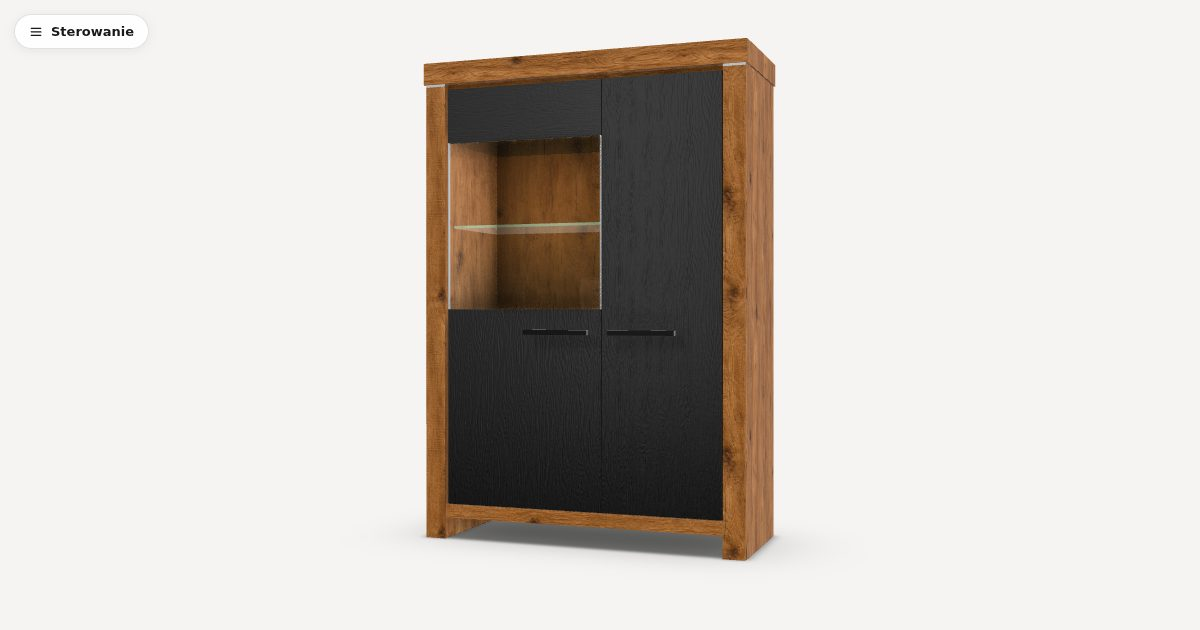
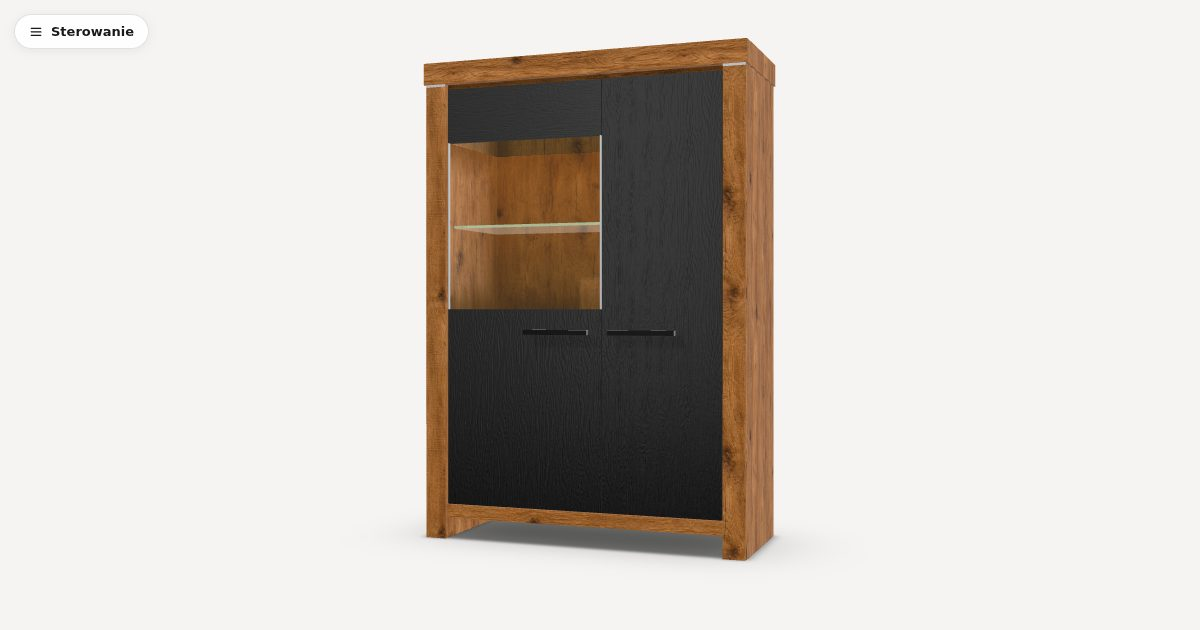
Render every frame the same way: drop settle-only AO
The desktop GTAO overlay drew only after the camera stopped, so the image
switched between lighter (moving) and darker (still) on real GPUs. All
render branches on camera motion are removed; interior and recess
occlusion are now constant shader terms, the floor shadow re-bakes only on
configuration or door changes, and a strict moving-vs-still pixel check
plus a source guard keep it that way. Posters, share image and gotcha G27
updated.

Changed region(s): [[0.37, 0.2111, 0.5242, 0.5127], [0.37, 0.8143, 0.4008, 0.8444]]

diff --git a/frontend/src/scene/StudioEffects.tsx b/frontend/src/scene/StudioEffects.tsx
@@ -1,12 +1,10 @@
-// Shadowing key light and screen-space ambient occlusion for the studio look; the floor shadow is BakedFloorShadow.
-import { useEffect, useLayoutEffect, useMemo, useRef } from 'react'
+// Shadowing key light and the scene renderer for the studio look; the floor shadow is BakedFloorShadow.
+import { useLayoutEffect, useRef } from 'react'
 import { useFrame, useThree } from '@react-three/fiber'
-import { Matrix4, Mesh, type Camera, type ShaderMaterial, type WebGLRenderTarget, type DirectionalLight, type Scene, type WebGLRenderer } from 'three'
-import { GTAOPass } from 'three/examples/jsm/postprocessing/GTAOPass.js'
-import { FullScreenQuad } from 'three/examples/jsm/postprocessing/Pass.js'
+import type { DirectionalLight } from 'three'
 import type { CabinetLayout } from './layout'
 import { PHONE } from './materials'
-import { endFrame, isAnimating } from './motion'
+import { endFrame } from './motion'
 
 /** Key light direction (from the cabinet centre) and strength: front-left and above, as in the reference photo. */
 const KEY_DIRECTION: [number, number, number] = [-2.5, 3.5, 3]
@@ -22,7 +20,6 @@ const SHADOW_RADIUS = 5
  */
 export function KeyLight({ bounds }: { bounds: CabinetLayout['bounds'] }) {
   const light = useRef<DirectionalLight>(null)
-  const get = useThree((s) => s.get)
   const invalidate = useThree((s) => s.invalidate)
   const [w, h, d] = bounds.size
   const [cx, cy, cz] = bounds.centre
@@ -41,10 +38,8 @@ export function KeyLight({ bounds }: { bounds: CabinetLayout['bounds'] }) {
     cam.near = reach
     cam.far = reach * 3.5
     cam.updateProjectionMatrix()
-    // A new size refreshes the shadow even mid-refit, while the camera still moves.
-    get().gl.shadowMap.needsUpdate = true
     invalidate()
-  }, [w, h, d, cx, cy, cz, get, invalidate])
+  }, [w, h, d, cx, cy, cz, invalidate])
   return (
     <directionalLight
       ref={light}
@@ -59,103 +54,16 @@ export function KeyLight({ bounds }: { bounds: CabinetLayout['bounds'] }) {
   )
 }
 
-/** After the last camera move, the settled frame (shadow refresh, AO) follows this much later. */
-const SETTLE_MS = 120
-
 /**
- * Ground-truth AO (three's GTAOPass) as a multiply layer over the frame already on the canvas: the colour is the
- * direct render untouched (same blending, tone mapping and output colour space as a moving frame); AO only darkens.
- * An earlier composer route re-rendered the colour into a linear target, which blended the glass in linear space
- * (greyed vitrine) and lifted the dark fronts.
+ * Renders the scene (useFrame priority 1) when the demand loop is invalidated, and closes the frame for `motion.ts`.
+ * One render path for every frame: the same passes, shadow map refresh (three's auto update) and lights whether the
+ * camera moves or not. A settled-frame-only GTAO layer once switched the look on real GPUs when the view stopped
+ * (gotchas G27); the occlusion is now analytic (`interiorOcclusion.ts`), so it is in every frame.
  */
-function createAoOverlay(scene: Scene, camera: Camera) {
-  const ao = new GTAOPass(scene, camera, 1, 1)
-  ao.output = GTAOPass.OUTPUT.Off
-  ao.updateGtaoMaterial({ radius: 0.35, distanceExponent: 1, thickness: 1, scale: 1, samples: 16 })
-  // Wider, denser denoise: the 4×4 noise pattern of the raw AO read as pixelation.
-  ao.updatePdMaterial({ radius: 12, rings: 3, samples: 24 })
-  // Glass and other transparent panes (and the floor-shadow quad) would occlude what is behind them in the AO depth,
-  // so the AO pass hides them.
-  // Patches a private method of three 0.187's GTAOPass (re-check on upgrade): it hides points and lines only.
-  const pass = ao as unknown as { _overrideVisibility(): void; _visibilityCache: Mesh[]; blendMaterial: ShaderMaterial; pdRenderTarget: WebGLRenderTarget }
-  const hide = pass._overrideVisibility.bind(ao)
-  pass._overrideVisibility = () => {
-    hide()
-    scene.traverse((o) => {
-      if (o instanceof Mesh && o.visible && [o.material].flat().every((m) => m.transparent)) {
-        o.visible = false
-        pass._visibilityCache.push(o)
-      }
-    })
-  }
-  // The pass's own multiply-blend material, drawn onto the canvas.
-  pass.blendMaterial.uniforms.tDiffuse.value = pass.pdRenderTarget.texture
-  pass.blendMaterial.uniforms.intensity.value = 1
-  const quad = new FullScreenQuad(pass.blendMaterial)
-  return {
-    setSize: (w: number, h: number) => ao.setSize(w, h),
-    render(gl: WebGLRenderer) {
-      const autoClear = gl.autoClear
-      ao.render(gl, null as unknown as WebGLRenderTarget, null as unknown as WebGLRenderTarget, 0, false)
-      gl.setRenderTarget(null)
-      gl.autoClear = false
-      quad.render(gl)
-      gl.autoClear = autoClear
-    },
-    dispose() {
-      ao.dispose()
-      quad.dispose()
-    },
-  }
-}
-
-/**
- * Renders the scene (useFrame priority 1), still only when the demand loop is invalidated.
- * - Motion is the camera moving or scene geometry animating (`motion.ts`, marked by Door). While moving, the frame
- *   renders directly and skips the AO layer (GTAO costs ~10× the frame time under SwiftShader); the settled frame
- *   after everything stops adds it over an otherwise identical render.
- * - The key light's shadow map is view-independent: reused while only the camera moves, refreshed while geometry
- *   animates and on every settled frame (option change, end of an orbit or swing).
- * - `ambientOcclusion` (desktop): corners, the underside of the top, the space behind shelves and the base darken.
- */
-export function StudioRenderer({ ambientOcclusion }: { ambientOcclusion: boolean }) {
-  const scene = useThree((s) => s.scene)
-  const camera = useThree((s) => s.camera)
-  const invalidate = useThree((s) => s.invalidate)
-  // The drawing buffer, in device pixels: the AO layer matches the canvas texel for texel.
-  const bufferWidth = useThree((s) => Math.round(s.size.width * s.viewport.dpr))
-  const bufferHeight = useThree((s) => Math.round(s.size.height * s.viewport.dpr))
-  const overlay = useMemo(() => (ambientOcclusion ? createAoOverlay(scene, camera) : null), [ambientOcclusion, scene, camera])
-  useEffect(() => () => overlay?.dispose(), [overlay])
-  useEffect(() => {
-    overlay?.setSize(bufferWidth, bufferHeight)
-    invalidate()
-  }, [overlay, bufferWidth, bufferHeight, invalidate])
-  const get = useThree((s) => s.get)
-  useLayoutEffect(() => {
-    const { shadowMap } = get().gl
-    shadowMap.autoUpdate = false
-    shadowMap.needsUpdate = true
-  }, [get])
-  const lastView = useRef(new Matrix4())
-  const settle = useRef<ReturnType<typeof setTimeout>>(undefined)
-  useEffect(() => () => clearTimeout(settle.current), [])
+export function StudioRenderer() {
   useFrame((state) => {
-    clearTimeout(settle.current)
-    const view = state.camera.matrixWorld
-    const cameraMoved = !view.equals(lastView.current)
-    const animating = isAnimating()
-    if (cameraMoved) {
-      lastView.current.copy(view)
-      settle.current = setTimeout(invalidate, SETTLE_MS)
-    }
-    // Reuse the map only for camera-only motion; moving geometry refreshes it even while the camera also moves.
-    // An animator invalidates its own next frame, which is the settled one once it stops.
-    if (!cameraMoved || animating) state.gl.shadowMap.needsUpdate = true
     state.gl.render(state.scene, state.camera)
-    if (!cameraMoved && !animating) overlay?.render(state.gl)
     endFrame()
   }, 1)
   return null
 }
-

diff --git a/frontend/src/scene/interiorOcclusion.ts b/frontend/src/scene/interiorOcclusion.ts
@@ -3,10 +3,12 @@ import { Vector3 } from 'three'
 import type { CabinetLayout } from './layout'
 
 /** Indirect light left at the back wall of the cavity, against 1 at the opening. */
-const BACK_LEVEL = 0.45
+const BACK_LEVEL = 0.36
 /** Indirect light left in an inside corner, and the distance (m) over which it recovers. */
-const CORNER_LEVEL = 0.55
-const CORNER_REACH_M = 0.09
+const CORNER_LEVEL = 0.4
+const CORNER_REACH_M = 0.12
+/** Share of the corner (contact) occlusion that also dims direct light: the key's light into a corner, as AO would. */
+const CORNER_DIRECT_SHARE = 0.5
 /** Warm vitrine light: ≈3000 K tint (linear RGB) and its strength on the albedo at the brightest point. */
 const VITRINE_TINT = [1, 0.5, 0.18] as const
 const VITRINE_STRENGTH = 0.55
@@ -16,13 +18,14 @@ const NO_BOX: CabinetLayout['interior'] = { min: [1, 1, 1], max: [-1, -1, -1] }
 /**
  * Analytic occlusion for the carcass cavity, on every device: environment (indirect) light on inner faces fades with
  * depth behind the opening and toward inside corners, as a real cabinet's interior sees little of the studio.
- * Direct light and its shadows are untouched; desktop GTAO adds the contact detail on top.
+ * Inside corners also dim part of the direct light, as contact AO would. It is in every frame on every device:
+ * the scene has no screen-space AO (a settled-frame-only GTAO layer switched the look when the camera stopped).
  * Faces count as inner when they lie inside the cavity box and do not face out through the back.
  *
  * The same patch adds the always-on warm vitrine light: inner faces of the glazed compartment gain a warm diffuse
  * term, strongest just under the fascia toward the back wall and fading softly down and toward the glass. It is
  * shading, not a scene light, so it costs no shadow map, cannot leak through solid doors, and looks the same on the
- * moving and settled frames and on phones. Independent of any priced LED option.
+ * moving and still frames and on phones. Independent of any priced LED option.
  * Installs the shader patch once per material; later calls only move the boxes, so a size change needs no recompile.
  */
 type Boxes = Record<'cavityMin' | 'cavityMax' | 'vitrineMin' | 'vitrineMax', { value: Vector3 }>
@@ -64,13 +67,24 @@ export function applyInteriorShading(material: MeshStandardMaterial, interior: C
   bool inside = all(greaterThan(p, cavityMin - eps)) && all(lessThan(p, cavityMax + eps)) && n.z > -0.5;
   if (inside) {
     float depth = clamp((cavityMax.z - p.z) / max(1e-4, cavityMax.z - cavityMin.z), 0.0, 1.0);
-    // Distance to the walls in the face's own plane; the open front is no wall.
+    // Distance to the nearest wall in the face's own plane (the open front is no wall), for the carcass cavity and,
+    // when glazed, the vitrine compartment (its floor and the fascia are inner walls of the cavity).
     vec3 d = vec3(min(p.x - cavityMin.x, cavityMax.x - p.x), min(p.y - cavityMin.y, cavityMax.y - p.y), p.z - cavityMin.z);
     d = max(d, 0.0) + abs(n) * 10.0;
     float edge = min(d.x, min(d.y, d.z));
-    float cavity = mix(1.0, ${BACK_LEVEL.toFixed(3)}, pow(depth, 0.8)) * mix(${CORNER_LEVEL.toFixed(3)}, 1.0, smoothstep(0.0, ${CORNER_REACH_M.toFixed(3)}, edge));
+    bool inBox = all(greaterThan(p, vitrineMin - eps)) && all(lessThan(p, vitrineMax + eps));
+    if (inBox) {
+      vec3 dv = vec3(min(p.x - vitrineMin.x, vitrineMax.x - p.x), min(p.y - vitrineMin.y, vitrineMax.y - p.y), p.z - vitrineMin.z);
+      dv = max(dv, 0.0) + abs(n) * 10.0;
+      edge = min(edge, min(dv.x, min(dv.y, dv.z)));
+    }
+    float contact = mix(${CORNER_LEVEL.toFixed(3)}, 1.0, smoothstep(0.0, ${CORNER_REACH_M.toFixed(3)}, edge));
+    float cavity = mix(1.0, ${BACK_LEVEL.toFixed(3)}, pow(depth, 0.8)) * contact;
     reflectedLight.indirectDiffuse *= cavity;
     reflectedLight.indirectSpecular *= cavity;
+    float direct = mix(1.0, contact, ${CORNER_DIRECT_SHARE.toFixed(3)});
+    reflectedLight.directDiffuse *= direct;
+    reflectedLight.directSpecular *= direct;
   }
   bool inVitrine = all(greaterThan(p, vitrineMin - eps)) && all(lessThan(p, vitrineMax + eps)) && n.z > -0.5;
   if (inVitrine) {

diff --git a/frontend/src/scene/BakedFloorShadow.tsx b/frontend/src/scene/BakedFloorShadow.tsx
@@ -1,7 +1,7 @@
-// Soft studio floor shadow, baked from the cabinet's underside whenever its geometry settles.
+// Soft studio floor shadow, baked from the cabinet's underside whenever its geometry changes.
 import { useEffect, useMemo, useRef } from 'react'
 import { useFrame, useThree } from '@react-three/fiber'
-import { DoubleSide, HalfFloatType, Matrix4, Mesh, OrthographicCamera, ShaderMaterial, WebGLRenderTarget, type Material, type Object3D, type Scene, type Texture, type WebGLRenderer } from 'three'
+import { DoubleSide, HalfFloatType, Mesh, OrthographicCamera, ShaderMaterial, WebGLRenderTarget, type Material, type Object3D, type Scene, type Texture, type WebGLRenderer } from 'three'
 import { FullScreenQuad } from 'three/examples/jsm/postprocessing/Pass.js'
 import type { CabinetLayout } from './layout'
 import { PHONE } from './materials'
@@ -84,8 +84,8 @@ function halve(gl: WebGLRenderer, passes: Passes, src: Texture, dst: WebGLRender
 
 /**
  * The floor shadow: the cabinet's underside (legs, plinth, door bottoms) projected straight down, blurred into a tight
- * contact core plus a broad penumbra, like a softbox-lit studio floor. Baked on settled frames only (never while the
- * camera moves or a door swings), so orbit frames cost one textured quad. Only shadow-casting (opaque)
+ * contact core plus a broad penumbra, like a softbox-lit studio floor. Baked when the casters change (configuration,
+ * door swing), never on camera motion, so orbit frames cost one textured quad. Only shadow-casting (opaque)
  * meshes take part. Drawn from above only, like the rest of the ground.
  */
 export function BakedFloorShadow({ layout, doorsOpen }: { layout: CabinetLayout; doorsOpen: boolean }) {
@@ -144,8 +144,12 @@ export function BakedFloorShadow({ layout, doorsOpen }: { layout: CabinetLayout;
     [targets, passes, floor],
   )
 
-  useEffect(() => invalidate(), [w, d, cx, cz, layout, doorsOpen, invalidate])
-  const lastView = useRef(new Matrix4())
+  const dirty = useRef(true)
+  const baked = useRef(-1)
+  useEffect(() => {
+    dirty.current = true
+    invalidate()
+  }, [w, d, cx, cz, layout, doorsOpen, invalidate])
 
   const bake = (gl: WebGLRenderer, scene: Scene) => {
     const half = size / 2
@@ -187,15 +191,19 @@ export function BakedFloorShadow({ layout, doorsOpen }: { layout: CabinetLayout;
     gl.setClearAlpha(own.clear)
   }
 
-  // Priority 0.5: after the animators (0) mark this frame, before StudioRenderer (1) draws it.
-  // Bakes on every frame the camera holds still and nothing animates (the same frames that refresh the key light's
-  // shadow): that covers option changes, texture-tier swaps and the end of a swing, without tracking each one.
+  // Priority 0.5: after the animators (0) mark this frame, before StudioRenderer (1) draws it, so a new bake shows in
+  // the same frame as the change that caused it (no flash). Re-bakes only when the casters change: a configuration
+  // change, a door swing (Door marks motion.ts), or a caster mesh mounting (texture-tier swap, first load).
+  // Never on camera motion: the bake is view-independent, and the look must not change when the camera stops.
   useFrame((state) => {
-    const view = state.camera.matrixWorld
-    const cameraMoved = !view.equals(lastView.current)
-    lastView.current.copy(view)
-    if (cameraMoved || isAnimating()) return
+    let signature = 0
+    state.scene.traverse((o) => {
+      if (o instanceof Mesh && o.visible && o.castShadow) signature = (signature * 31 + o.id) % 2147483647
+    })
+    if (signature === baked.current && !dirty.current && !isAnimating()) return
     bake(state.gl, state.scene)
+    baked.current = signature
+    dirty.current = false
   }, 0.5)
 
   return (

diff --git a/frontend/tests/renderConsistency.test.ts b/frontend/tests/renderConsistency.test.ts
@@ -1,0 +1,25 @@
+// Source guard: every frame renders through one path, whether the camera moves or not. Headless SwiftShader hides
+// GPU-only differences, so the pixel identity check (scene-check/settle-compare.mjs) is backed by this scan.
+import { describe, test } from 'node:test'
+import assert from 'node:assert/strict'
+import { readFileSync, readdirSync } from 'node:fs'
+import { join } from 'node:path'
+
+const SCENE = join(import.meta.dirname, '../src/scene')
+const sources = readdirSync(SCENE)
+  .filter((f) => /\.tsx?$/.test(f))
+  .map((f) => ({ file: f, code: readFileSync(join(SCENE, f), 'utf8').replace(/\/\*[\s\S]*?\*\/|\/\/.*$/gm, '') }))
+
+/** Files whose code (comments stripped) matches `pattern`. */
+const matching = (pattern: RegExp) => sources.filter((s) => pattern.test(s.code)).map((s) => s.file)
+
+describe('scene render code has no camera-motion branch', () => {
+  test('no file compares camera matrices or poses between frames', () =>
+    assert.deepEqual(matching(/camera\.(matrixWorld|position|quaternion)[\w.]*\.equals\(|cameraMoved|lastView/), []))
+  test('no settle timer schedules a deferred frame', () => assert.deepEqual(matching(/SETTLE|setTimeout\(\s*invalidate/), []))
+  test('no file hand-schedules the shadow map refresh', () => assert.deepEqual(matching(/shadowMap\.(autoUpdate|needsUpdate)/), []))
+  test('no screen-space post pass is imported', () => assert.deepEqual(matching(/postprocessing\/(GTAOPass|SSAOPass|EffectComposer|SAOPass)/), []))
+})
+
+test('only the door swing and the floor-shadow bake use the geometry-motion flag', () =>
+  assert.deepEqual(matching(/from '\.\/motion'/).sort(), ['BakedFloorShadow.tsx', 'Door.tsx', 'StudioEffects.tsx']))

diff --git a/frontend/src/scene/CabinetScene.tsx b/frontend/src/scene/CabinetScene.tsx
@@ -25,8 +25,6 @@ const VIEW_PRESETS: Record<ViewPreset, [number, number]> = {
   top: [0, 0],
 }
 const BACKGROUND = '#f5f4f2'
-/** AO on desktop; `?ao=off` renders every frame as the moving (direct) frame, for the settle-frame pixel check. */
-const AMBIENT_OCCLUSION = !PHONE && new URLSearchParams(location.search).get('ao') !== 'off'
 
 /** The studio HDRI per texture tier: box-averaged 256×128 for the first frame, 512×256 as full on phones. */
 const HDRI: Record<TextureTier, string> = {
@@ -160,7 +158,7 @@ function CameraRig({
         invalidate()
       },
       snapshot() {
-        // Render (through the AO composer when mounted) and read back in the same tick: no preserveDrawingBuffer needed.
+        // Render and read back in the same tick: no preserveDrawingBuffer needed.
         advance(performance.now(), true)
         const url = gl.domElement.toDataURL('image/png')
         return fetch(url).then((r) => r.blob())
@@ -248,7 +246,7 @@ export function CabinetScene({
         </Suspense>
         {/* Directional key from the front-left: separates the front, side and top faces as in the reference. */}
         <KeyLight bounds={layout.bounds} />
-        <StudioRenderer ambientOcclusion={AMBIENT_OCCLUSION} />
+        <StudioRenderer />
         <BakedFloorShadow layout={layout} doorsOpen={doorsOpen} />
         <CameraRig bounds={layout.bounds} onReady={onReady} controlsRef={controlsRef} />
         {children}

diff --git a/frontend/src/scene/motion.ts b/frontend/src/scene/motion.ts
@@ -1,6 +1,6 @@
 /**
- * Per-frame "the scene geometry is animating" flag, shared by the animators (Door) and the frame consumers that must
- * hold expensive work until everything settles (StudioRenderer's AO and shadow refresh, the floor-shadow bake).
+ * Per-frame "the scene geometry is animating" flag: Door marks it while it swings, so the floor-shadow bake follows
+ * the door. Never keyed to camera motion: no render state may differ between a moving and a still camera.
  * Animators mark from their useFrame (priority 0); consumers read at priority > 0 in the same frame; the renderer
  * ends the frame.
  */

diff --git a/frontend/src/scene/materials.ts b/frontend/src/scene/materials.ts
@@ -193,7 +193,7 @@ export function shadowedWoodMaterial(wood: MeshStandardMaterial): MeshStandardMa
   let m = shadowed.get(wood)
   if (!m) {
     m = wood.clone()
-    m.color.multiplyScalar(0.5)
+    m.color.multiplyScalar(0.42)
     m.roughness = Math.min(1, wood.roughness + 0.15)
     const own = m
     wood.addEventListener('dispose', () => own.dispose())

diff --git a/docs/3d-configurator/gotchas.md b/docs/3d-configurator/gotchas.md
@@ -43,8 +43,11 @@ Each rule carries a tag: the stage it applies from, and the trigger that makes i
   Why: drei presets fetch from a CDN, and the drei docs say they are not meant for production.
 - **G14** `stage 1 · dark or glossy fronts` Add `<Lightformer>` softboxes inside `<Environment frames={1}>`.
   Why: dark fronts look flat when nothing bright is there to reflect.
-- **G15** `stage 1 · grounding the object` Ground the object with a soft shadow that follows its footprint and updates when a dimension changes. On the installed versions, bake the key light's shadow into a floor texture once the scene settles and blur it with a dense kernel (`frontend/src/scene/BakedFloorShadow.tsx`); a sparse blur leaves bands.
+- **G15** `stage 1 · grounding the object` Ground the object with a soft shadow that follows its footprint and updates when a dimension changes. On the installed versions, bake the cabinet's underside into a floor texture when the casters change (configuration, door swing; never on camera motion) and blur it with a dense kernel (`frontend/src/scene/BakedFloorShadow.tsx`); a sparse blur leaves bands.
   Why: a floating object reads as fake. drei `ContactShadows` drew nothing on the installed versions, even with a red shadow colour.
+
+- **G27** `stage 1 · lighting, AO or any per-frame effect` Render every frame through one path: the same passes, lights, shadow-map refresh and environment whether the camera moves or not. Get occlusion from constant techniques (analytic cavity shading, darker recess materials, `frontend/src/scene/interiorOcclusion.ts`), not a pass added once the view settles. Check moving vs settled frames for pixel identity (`frontend/scripts/perf-check/settle-diff.mjs`) and keep the source guard `frontend/tests/renderConsistency.test.ts`.
+  Why: a settled-frame-only GTAO layer made the vitrine darker and the black fronts lighter each time the camera stopped on a real GPU, while headless SwiftShader showed no brightening.
 - **G16** `stage 1 · a dimension change` Re-frame with CameraControls `fitToBox(box, true)` on slider release, not on every tick.
   Why: refitting on every tick makes the view swim.
 - **G17** `stage 0 · orbit controls` Limit polar angles, azimuth (about ±100°) and distance.

diff --git a/docs/3d-configurator/gotchas-sources.md b/docs/3d-configurator/gotchas-sources.md
@@ -18,12 +18,13 @@ Tags: [doc] official docs read during research · [forum] community thread read 
 | G11 | https://github.com/klich3/threejs-gltf-with-compressions-sample ; https://forum.babylonjs.com/t/how-to-use-ktx2-basis-compressed-normals/16021 [forum] |
 | G12 | https://www.khronos.org/news/press/khronos-pbr-neutral-tone-mapper-released-for-true-to-life-color-rendering-of-3d-products ; https://r3f.docs.pmnd.rs/api/canvas [doc] |
 | G13, G14 | https://drei.docs.pmnd.rs/staging/environment [doc] |
-| G15 | https://drei.docs.pmnd.rs/staging/contact-shadows ; https://drei.docs.pmnd.rs/staging/accumulative-shadows [doc]; ContactShadows rendering nothing on three 0.187 / drei 10.7.9, `frontend/src/scene/BakedFloorShadow.tsx` (settled-only bake, dense blur) [observed] |
+| G15 | https://drei.docs.pmnd.rs/staging/contact-shadows ; https://drei.docs.pmnd.rs/staging/accumulative-shadows [doc]; ContactShadows rendering nothing on three 0.187 / drei 10.7.9, `frontend/src/scene/BakedFloorShadow.tsx` (bake on caster change, dense blur) [observed] |
 | G16 | https://github.com/yomotsu/camera-controls ; https://drei.docs.pmnd.rs/staging/bounds [doc] |
 | G17, G18 | https://github.com/yomotsu/camera-controls [doc]; G18 also https://r3f.docs.pmnd.rs/advanced/scaling-performance [doc] |
 | G19 | https://r3f.docs.pmnd.rs/advanced/scaling-performance ; https://r3f.docs.pmnd.rs/api/canvas [doc] |
 | G21, G22, G23 | https://r3f.docs.pmnd.rs/advanced/pitfalls [doc] |
 | G26 | `frontend/src/scene/materials.ts` (`useWoodMaps`), drei 10.7.9 [observed] |
+| G27 | live site on a real GPU, moving vs settled frame, 2026-11-03; `frontend/scripts/perf-check/settle-diff.mjs` fails the GTAO build (up to 31 % of pixels differ) [observed] |
 
 Details inside verified rules that are not verified themselves:
 
